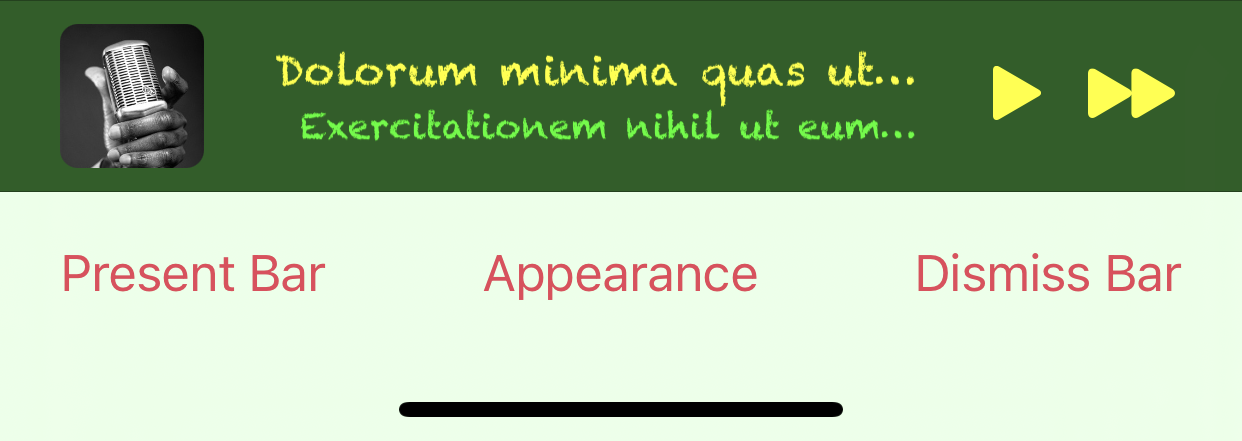
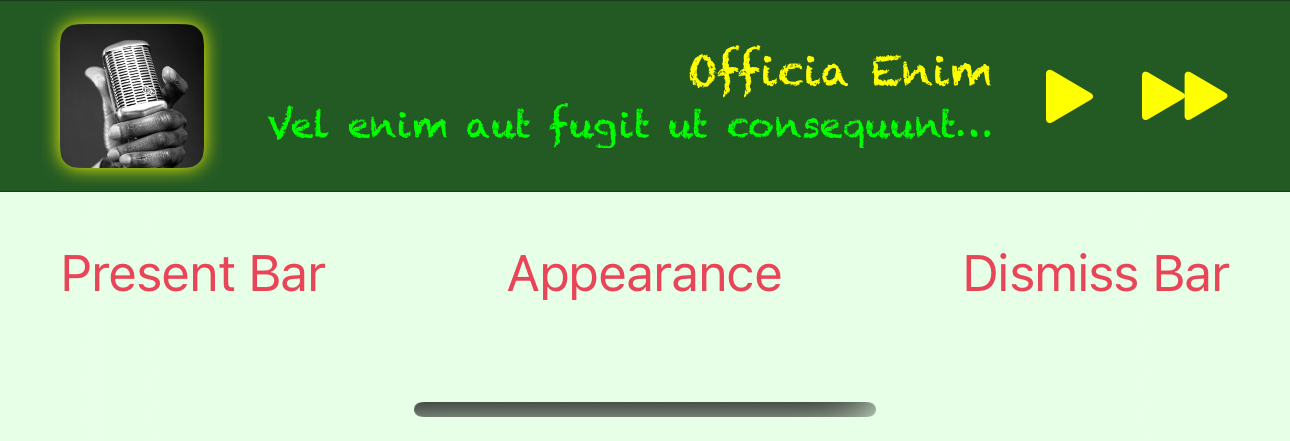
README and demo project updates

diff --git a/LNPopupControllerExample/LNPopupControllerExample/TestingScene/DemoViewController.m b/LNPopupControllerExample/LNPopupControllerExample/TestingScene/DemoViewController.m
@@ -87,10 +87,6 @@
 			NSUInteger tabIdx = [self.tabBarController.viewControllers indexOfObject:self.navigationController ?: self];
 			self.colorSeedString = [NSString stringWithFormat:@"tab_%@", @(tabIdx)];
 		}
-		else if(self.navigationController != nil)
-		{
-			self.colorSeedString = [NSString stringWithFormat:@"tab_109"];
-		}
 		else
 		{
 			self.colorSeedString = @"nil";

diff --git a/README.md b/README.md
@@ -230,26 +230,43 @@ Supplying long text for the title and/or subtitle will result in a scrolling tex
 
 #### Popup Bar Customization
 
-`LNPopupBar` exposes API to customize the default popup bar's appearance, either through `UIAppearance` API or directly on a specific popup bar object. Use `LNPopupBarAppearance` objects to define the standard appearance of the bar.
+`LNPopupBar` exposes many APIs to customize the default popup bar's appearance. Use `LNPopupBarAppearance` objects to define the standard appearance of the bar.
 
-Remember to set the `inheritsAppearanceFromDockingView` property to `false`, or your customization is likely to be overridden by the bottom bar’s appearance.
+Remember to set the `inheritsAppearanceFromDockingView` property to `false`, or some of your customizations might be overridden by the bottom bar’s appearance.
 
 ```swift
 let appearance = LNPopupBarAppearance()
 appearance.titleTextAttributes = AttributeContainer()
-				.font(UIFontMetrics(forTextStyle: .headline).scaledFont(for: UIFont(name: "Chalkduster", size: 14)!))
-				.foregroundColor(UIColor.yellow)
+	.font(UIFontMetrics(forTextStyle: .headline).scaledFont(for: UIFont(name: "Chalkduster", size: 14)!))
+	.foregroundColor(UIColor.yellow)
 appearance.subtitleTextAttributes = AttributeContainer()
-				.font(UIFontMetrics(forTextStyle: .subheadline).scaledFont(for: UIFont(name: "Chalkduster", size: 12)!))
-				.foregroundColor(UIColor.green)
-appearance.backgroundEffect = UIBlurEffect(style: .systemChromeMaterialDark)
+	.font(UIFontMetrics(forTextStyle: .subheadline).scaledFont(for: UIFont(name: "Chalkduster", size: 12)!))
+	.foregroundColor(UIColor.green)
 
-navigationController?.popupBar.inheritsAppearanceFromDockingView = false
+let floatingBarBackgroundShadow = NSShadow()
+floatingBarBackgroundShadow.shadowColor = UIColor.red
+floatingBarBackgroundShadow.shadowOffset = .zero
+floatingBarBackgroundShadow.shadowBlurRadius = 8.0
+appearance.floatingBarBackgroundShadow = floatingBarBackgroundShadow
+
+let imageShadow = NSShadow()
+imageShadow.shadowColor = UIColor.yellow
+imageShadow.shadowOffset = .zero
+imageShadow.shadowBlurRadius = 3.0
+appearance.imageShadow = imageShadow
+
+if navigationController?.popupBar.barStyle == .floating {
+	appearance.floatingBackgroundEffect = UIBlurEffect(style: .dark)
+} else {
+	appearance.backgroundEffect = UIBlurEffect(style: .dark)
+	navigationController?.popupBar.inheritsAppearanceFromDockingView = false
+}
+
 navigationController?.popupBar.standardAppearance = appearance
 navigationController?.popupBar.tintColor = .yellow
 ```
 
-<p align="center"><img src="./Supplements/floating_custom.png" width="360"/> <img src="./Supplements/modern_custom.png" width="360"/> <img src="./Supplements/custom1.png" width="360"/></p>
+<p align="center"><img src="./Supplements/floating_custom.png" width="360"/> <img src="./Supplements/modern_custom.png" width="360"/> <img src="./Supplements/compact_custom.png" width="360"/></p>
 
 #### System Interactions
 
@@ -294,7 +311,7 @@ Finally, set the `customBarViewController` property of the popup bar object to a
 The included demo project includes two example custom popup bar scenes.
 
 > [!TIP]
-> Only implement a custom popup bar if you need a design that is significantly different than the provided [standard popup bar styles](#bar-style). A lot of care and effort has been put into integrating these popup bar styles with the UIKit system, including look, feel, transitions and interactions. Custom bars provide a blank canvas for you to implement a bar of your own, but if you end up recreating a bar design that is similar to a standard bar style, you are more than likely losing subtleties that have been added and perfected over the years in the standard implementations. Instead, consider using the many customization APIs to tweak the standard bar styles to fit your app’s design.
+> Only implement a custom popup bar if you need a design that is significantly different than the provided [standard popup bar styles](#bar-style). A lot of care and effort has been put into integrating these popup bar styles with the UIKit system, including look, feel, transitions and interactions. Custom bars provide a blank canvas for you to implement a bar of your own, but if you end up recreating a bar design that is similar to a standard bar style, you are more than likely losing subtleties that have been added and perfected over the years in the standard implementations. Instead, consider using the [many customization APIs](#popup-bar-customization) to tweak the standard bar styles to fit your app’s design.
 
 #### ProMotion Support
 
